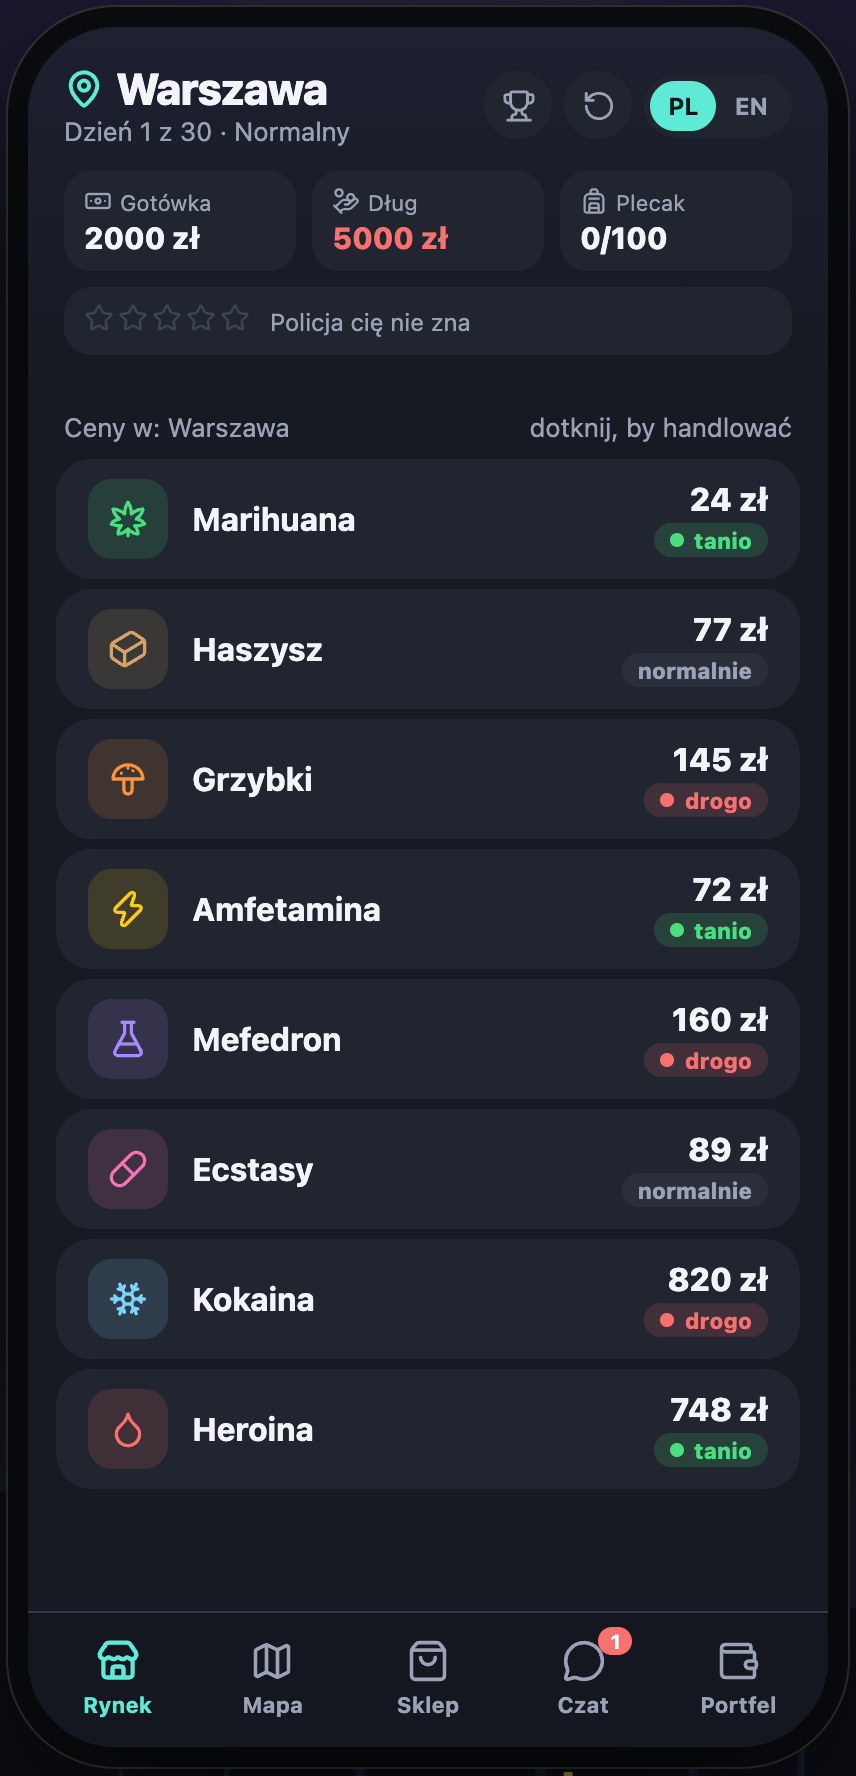
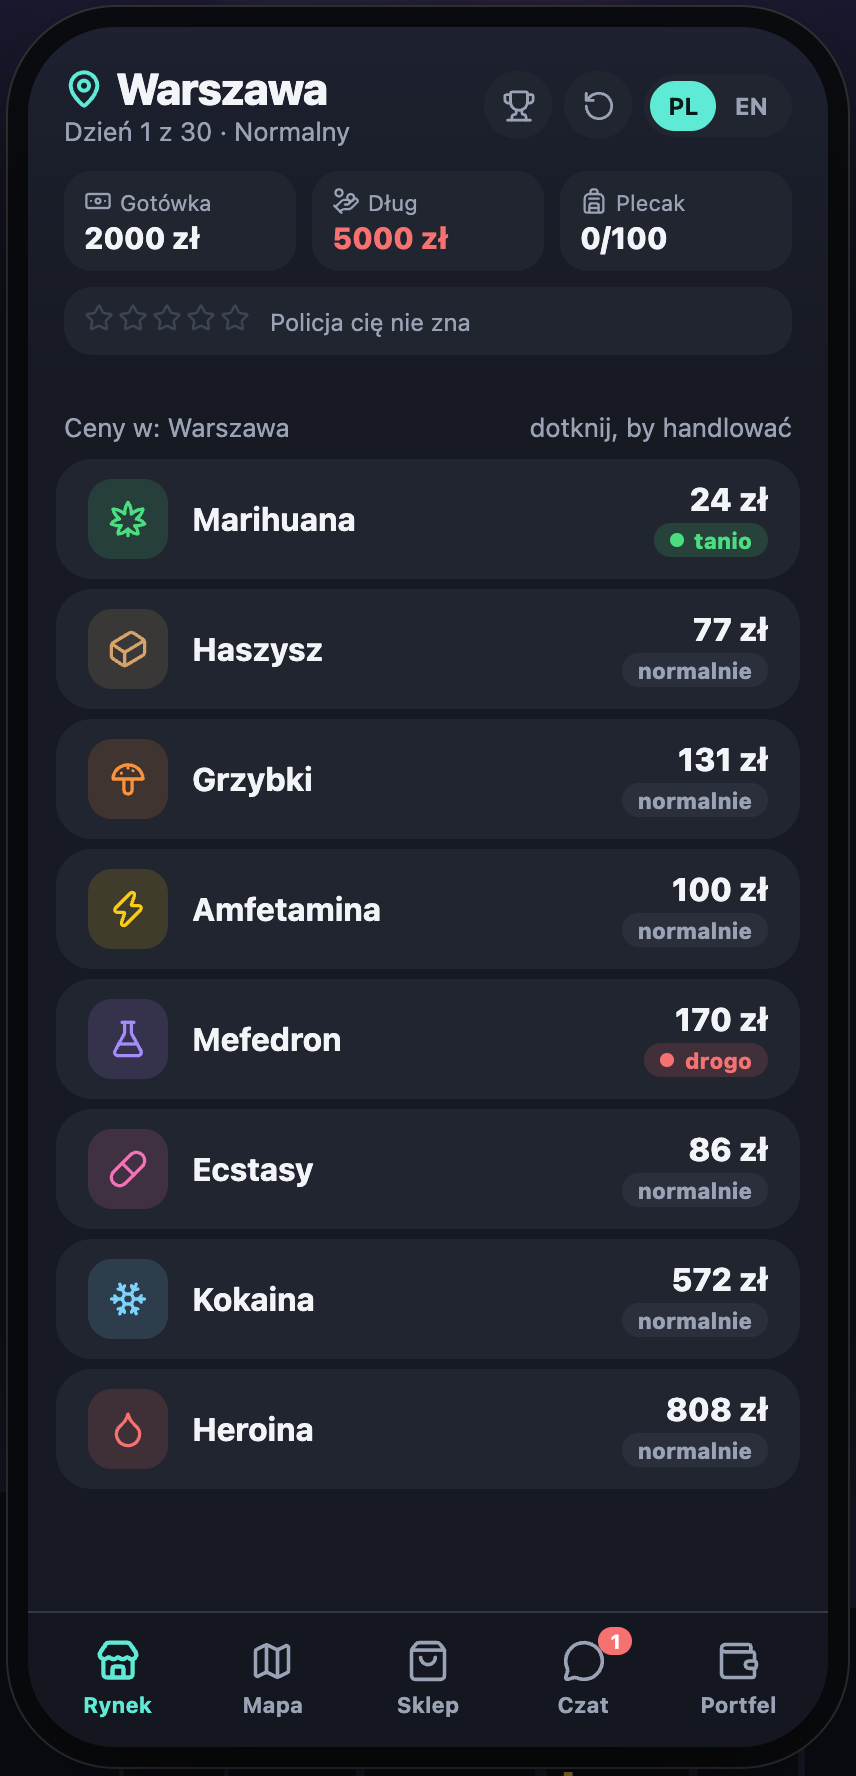
Travel cost by distance: train fare 15 zł + 0.20 zł/km, fuel = km x l/100km x 6.5 zł; map sorted by distance

diff --git a/src/game/data.ts b/src/game/data.ts
@@ -14,7 +14,9 @@ export interface City {
   exp: GoodId[];
   /** poziom policji 1..3 */
   police: number;
-  ticket: number;
+  /** współrzędne (do liczenia odległości) */
+  lat: number;
+  lon: number;
   clinic?: boolean;
 }
 
@@ -30,14 +32,14 @@ export const GOODS: Good[] = [
 ];
 
 export const CITIES: City[] = [
-  { id: 'waw', cheap: [], exp: ['coke', 'ecstasy'], police: 3, ticket: 60, clinic: true },
-  { id: 'krk', cheap: [], exp: ['weed', 'ecstasy'], police: 2, ticket: 50, clinic: true },
-  { id: 'gda', cheap: ['coke'], exp: ['speed'], police: 2, ticket: 70, clinic: true },
-  { id: 'szc', cheap: ['coke', 'heroin'], exp: [], police: 1, ticket: 80 },
-  { id: 'wro', cheap: ['ecstasy'], exp: ['speed'], police: 2, ticket: 60, clinic: true },
-  { id: 'poz', cheap: ['weed'], exp: ['coke'], police: 1, ticket: 55, clinic: true },
-  { id: 'lod', cheap: ['speed', 'mefa'], exp: [], police: 1, ticket: 40 },
-  { id: 'kat', cheap: ['speed'], exp: ['weed', 'mefa'], police: 2, ticket: 50 },
+  { id: 'waw', cheap: [], exp: ['coke', 'ecstasy'], police: 3, lat: 52.23, lon: 21.01, clinic: true },
+  { id: 'krk', cheap: [], exp: ['weed', 'ecstasy'], police: 2, lat: 50.06, lon: 19.94, clinic: true },
+  { id: 'gda', cheap: ['coke'], exp: ['speed'], police: 2, lat: 54.35, lon: 18.65, clinic: true },
+  { id: 'szc', cheap: ['coke', 'heroin'], exp: [], police: 1, lat: 53.43, lon: 14.55 },
+  { id: 'wro', cheap: ['ecstasy'], exp: ['speed'], police: 2, lat: 51.11, lon: 17.03, clinic: true },
+  { id: 'poz', cheap: ['weed'], exp: ['coke'], police: 1, lat: 52.41, lon: 16.93, clinic: true },
+  { id: 'lod', cheap: ['speed', 'mefa'], exp: [], police: 1, lat: 51.76, lon: 19.46 },
+  { id: 'kat', cheap: ['speed'], exp: ['weed', 'mefa'], police: 2, lat: 50.26, lon: 19.02 },
 ];
 
 export const DIFFS: Record<Diff, { days: number; debt: number; police: number; tut: boolean; showAvg: boolean }> = {
@@ -45,6 +47,11 @@ export const DIFFS: Record<Diff, { days: number; debt: number; police: number; t
   normal: { days: 30, debt: 5000, police: 1, tut: true, showAvg: true },
   hard: { days: 30, debt: 10000, police: 1.5, tut: false, showAvg: false },
 };
+
+/** Bilet: opłata stała + stawka za km; odległość drogowa ≈ w linii prostej × ROAD */
+export const FARE = { base: 15, perKm: 0.2, road: 1.2 };
+/** Cena paliwa za litr (zł) */
+export const FUEL_PRICE = 6.5;
 
 export const START = { cash: 2000, heat: 5, cap: 100, city: 'waw' as CityId };
 export const ECON = {
@@ -59,14 +66,14 @@ export const ECON = {
 };
 
 /** Transport: pojemność, szansa ucieczki przed policją/napadem, mnożnik szansy kontroli */
-/** fuel: 0 = jedziesz pociągiem (bilet); > 0 = własny pojazd, paliwo = bilet × fuel */
+/** fuel: spalanie w l/100 km; 0 = jedziesz pociągiem (bilet) */
 export interface Vehicle { id: VehicleId; price: number; cap: number; run: number; police: number; fuel: number }
 export const VEHICLES: Vehicle[] = [
   { id: 'backpack', price: 0, cap: 100, run: 50, police: 1, fuel: 0 },
   { id: 'bigpack', price: 1500, cap: 150, run: 45, police: 1, fuel: 0 }, // cięższy = trudniej uciec
-  { id: 'scooter', price: 8000, cap: 200, run: 65, police: 1, fuel: 0.5 },
-  { id: 'car', price: 25000, cap: 350, run: 55, police: 1, fuel: 1.3 },
-  { id: 'van', price: 70000, cap: 700, run: 35, police: 1.25, fuel: 2 },
+  { id: 'scooter', price: 8000, cap: 200, run: 65, police: 1, fuel: 3 },
+  { id: 'car', price: 25000, cap: 350, run: 55, police: 1, fuel: 7 },
+  { id: 'van', price: 70000, cap: 700, run: 35, police: 1.25, fuel: 11 },
 ];
 /** Ochrona przed napadem. Nielegalna broń: przy złapaniu przez policję konfiskata + dodatkowa grzywna */
 export interface Weapon { id: WeaponId; price: number; fight: number; legal: boolean }

diff --git a/src/game/engine.ts b/src/game/engine.ts
@@ -2,7 +2,7 @@
  * Silnik gry: czyste funkcje (stan → nowy stan + efekty). Bez DOM, bez localStorage, bez Math.random.
  * Każda akcja klonuje stan wejściowy, więc wejście nigdy nie jest modyfikowane (cofanie ruchu = poprzedni stan).
  */
-import { basePrice, BORROW, C, CITIES, COLLECT, DIFFS, DODGE, ECON, GOODS, GUN_FINE, LOSS, PROTECT, RESALE, MED, MED_PREMIUM, ROBBERY_CHANCE, RX, START, V, W } from './data';
+import { basePrice, BORROW, C, CITIES, COLLECT, DIFFS, DODGE, ECON, FARE, FUEL_PRICE, GOODS, GUN_FINE, LOSS, PROTECT, RESALE, MED, MED_PREMIUM, ROBBERY_CHANCE, RX, START, V, W } from './data';
 import { pick, rng } from './rng';
 import type {
   CityId, Diff, Fx, GameState, GoodId, ItemId, Msg, Outcome, PoliceChoice, Rating, RobberyChoice, Sender, Src, TradeMode,
@@ -131,9 +131,23 @@ export function trade(prev: GameState, item: ItemId, mode: TradeMode, n: number,
  * Bez pieniędzy na bilet można jechać tylko na gapę.
  */
 /** Koszt podróży: bilet na pociąg albo paliwo do własnego pojazdu */
-export function travelCost(s: GameState, to: CityId): { kind: 'ticket' | 'fuel'; cost: number } {
+/** Odległość drogowa między miastami w km (w linii prostej × FARE.road, zaokrąglona do 5 km) */
+export function distanceKm(a: CityId, b: CityId): number {
+  if (a === b) return 0;
+  const R = 6371, rad = Math.PI / 180;
+  const A = C[a], B = C[b];
+  const dLat = (B.lat - A.lat) * rad, dLon = (B.lon - A.lon) * rad;
+  const h = Math.sin(dLat / 2) ** 2 + Math.cos(A.lat * rad) * Math.cos(B.lat * rad) * Math.sin(dLon / 2) ** 2;
+  return Math.round((2 * R * Math.asin(Math.sqrt(h)) * FARE.road) / 5) * 5;
+}
+/** Cena biletu na pociąg zależy od odległości */
+export const ticketPrice = (a: CityId, b: CityId) => Math.round(FARE.base + FARE.perKm * distanceKm(a, b));
+/** Koszt podróży z obecnego miasta: bilet albo paliwo (km × spalanie × cena litra) */
+export function travelCost(s: GameState, to: CityId): { kind: 'ticket' | 'fuel'; cost: number; km: number } {
   const fuel = V[s.vehicle].fuel;
-  return fuel ? { kind: 'fuel', cost: Math.round(C[to].ticket * fuel) } : { kind: 'ticket', cost: C[to].ticket };
+  const ticket = ticketPrice(s.city, to);
+  const km = distanceKm(s.city, to);
+  return fuel ? { kind: 'fuel', cost: Math.round((km * fuel * FUEL_PRICE) / 100), km } : { kind: 'ticket', cost: ticket, km };
 }
 export function travel(prev: GameState, to: CityId, dodge = false): Outcome {
   if (to === prev.city || prev.day >= prev.maxDays || prev.pending || prev.over) return { s: prev, fx: [] };

diff --git a/tests/engine.test.ts b/tests/engine.test.ts
@@ -121,19 +121,22 @@ describe('recepta i apteka', () => {
 describe('sklep i napad', () => {
   it('własny pojazd: paliwo zamiast biletu', () => {
     const s = { ...afterTutorial(), cash: 100000 };
-    expect(travelCost(s, 'krk')).toEqual({ kind: 'ticket', cost: 50 });
-    expect(travelCost({ ...s, vehicle: 'scooter' }, 'krk')).toEqual({ kind: 'fuel', cost: 25 });
-    expect(travelCost({ ...s, vehicle: 'car' }, 'krk')).toEqual({ kind: 'fuel', cost: 65 });
-    expect(travelCost({ ...s, vehicle: 'van' }, 'krk')).toEqual({ kind: 'fuel', cost: 100 });
-    expect(travel({ ...s, vehicle: 'van' }, 'krk').s.cash).toBe(100000 - 100);
+    // Warszawa → Kraków: 305 km; bilet 15 + 0,2 zł/km; paliwo = km × l/100 × 6,5 zł
+    expect(travelCost(s, 'krk')).toEqual({ kind: 'ticket', cost: 76, km: 305 });
+    expect(travelCost({ ...s, vehicle: 'scooter' }, 'krk')).toEqual({ kind: 'fuel', cost: 59, km: 305 });
+    expect(travelCost({ ...s, vehicle: 'car' }, 'krk')).toEqual({ kind: 'fuel', cost: 139, km: 305 });
+    expect(travelCost({ ...s, vehicle: 'van' }, 'krk')).toEqual({ kind: 'fuel', cost: 218, km: 305 });
+    expect(travel({ ...s, vehicle: 'van' }, 'krk').s.cash).toBe(100000 - 218);
+    // cena zależy od tego, skąd jedziesz
+    expect(travelCost({ ...s, city: 'kat' }, 'krk').cost).toBeLessThan(travelCost({ ...s, city: 'gda' }, 'krk').cost);
   });
   it('pojazdem nie da się na gapę; brak kasy na paliwo → pożyczka i jazda', () => {
     const s = { ...afterTutorial(), vehicle: 'car' as const, cap: 350, cash: 20 };
     expect(travel(s, 'krk', true).s).toBe(s);
-    const r = borrowAndTravel(s, 'krk'); // paliwo 65 zł, brakuje 45
+    const r = borrowAndTravel(s, 'krk'); // paliwo 139 zł, brakuje 119
     expect(r.s.day).toBe(2);
     expect(r.s.cash).toBe(0);
-    expect(r.s.debt).toBe(Math.round((5000 + 45) * 1.07));
+    expect(r.s.debt).toBe(Math.round((5000 + 119) * 1.07));
   });
   it('sprzedaż pojazdu: tylko gdy towar mieści się w plecaku', () => {
     const full = { ...afterTutorial(), vehicle: 'car' as const, cap: 350, cash: 0, inv: { weed: { qty: 150, avg: 20 } } };

diff --git a/src/components/MapView.svelte b/src/components/MapView.svelte
@@ -5,7 +5,7 @@
   import { actions } from '../stores/app';
   import { DICTS, t } from '../i18n';
   import { CITIES } from '../game/data';
-  import { travelCost } from '../game/engine';
+  import { distanceKm, travelCost } from '../game/engine';
   import type { GameState, Lang } from '../game/types';
 
   let { game, lang }: { game: GameState; lang: Lang } = $props();
@@ -15,13 +15,13 @@
 
 {#if last}<div class="tip">⏰ {t(lang, 'lastDay')}</div>{/if}
 <div class="h"><span>{t(lang, 'travelTo')}</span></div>
-{#each CITIES as c (c.id)}
+{#each [...CITIES].sort((a, b) => distanceKm(game.city, a.id) - distanceKm(game.city, b.id)) as c (c.id)}
   {@const here = c.id === game.city}
   <button class="row" class:pulse={game.tut === 1 && c.id === 'krk'} disabled={here || last} onclick={() => actions.askTravel(c.id)}>
     <ItemIcon name={here ? 'here' : 'city'} />
     <div class="grow">
       <div class="name">{d.cities[c.id]}</div>
-      <div class="sub">{#if here}{t(lang, 'here')}{:else}{@const tc = travelCost(game, c.id)}{t(lang, tc.kind === 'fuel' ? 'fuel' : 'ticket', { p: tc.cost })}{/if}{game.rxUnlocked && c.clinic ? ' · ' + t(lang, 'clinicHere') : ''}</div>
+      <div class="sub">{#if here}{t(lang, 'here')}{:else}{@const tc = travelCost(game, c.id)}{t(lang, tc.kind === 'fuel' ? 'fuel' : 'ticket', { p: tc.cost })} · {tc.km} km{/if}{game.rxUnlocked && c.clinic ? ' · ' + t(lang, 'clinicHere') : ''}</div>
     </div>
     <div class="pol" title={t(lang, 'polLvlTip', { n: c.police })}>
       <span class="cap"><Siren size={11} strokeWidth={2.4} /> {t(lang, 'polLvl')}</span>

diff --git a/tests/balance.sim.test.ts b/tests/balance.sim.test.ts
@@ -34,7 +34,7 @@ function play(diff: Diff, seed: number, cautious: boolean): Stats {
     const cheap = GOODS.map((g) => ({ id: g.id as GoodId, r: s.prices[s.city][g.id] / ((g.min + g.max) / 2) }))
       .filter((x) => rating(x.id, s.prices[s.city][x.id]) === 'cheap').sort((a, b) => a.r - b.r)[0];
     if (cheap) {
-      const keep = 100;
+      const keep = 150;
       const p = s.prices[s.city][cheap.id];
       const n = Math.min(tradeLimits(s, cheap.id, 'street').maxBuy, Math.floor((s.cash - keep) / p));
       if (n > 0) s = trade(s, cheap.id, 'buy', n).s;
@@ -42,7 +42,7 @@ function play(diff: Diff, seed: number, cautious: boolean): Stats {
     // jedź do losowego innego miasta
     const others = CITIES.filter((c) => c.id !== s.city);
     const to = others[(seed + s.day * 7) % others.length].id;
-    const r = travel(s, to, s.cash < 100);
+    const r = travel(s, to, s.cash < 150);
     s = r.s;
     if (s.pending?.kind === 'police') { st.police++; s = resolvePolice(s, used(s) > 40 && s.cash > s.pending.bribeC ? 'bribe' : 'run').s; }
     if (s.pending?.kind === 'robbery') { st.robbery++; s = resolveRobbery(s, 'run').s; }

diff --git a/e2e/game.spec.ts b/e2e/game.spec.ts
@@ -118,10 +118,10 @@ test('auto bez kasy na paliwo: pożyczka i jazda, bez opcji na gapę', async ({ 
   await page.evaluate(() => { const s = JSON.parse(localStorage.getItem('ss_save_v3')!); Object.assign(s, { cash: 20, tut: 4, vehicle: 'car', cap: 350 }); localStorage.setItem('ss_save_v3', JSON.stringify(s)); });
   await page.reload();
   await page.getByRole('button', { name: 'Mapa' }).click();
-  await expect(page.getByRole('button', { name: /Kraków/ })).toContainText('paliwo 65 zł');
+  await expect(page.getByRole('button', { name: /Kraków/ })).toContainText('paliwo 139 zł · 305 km');
   await page.getByRole('button', { name: /Kraków/ }).click();
   await expect(page.getByText('Nie stać cię na paliwo')).toBeVisible();
   await expect(page.getByRole('button', { name: /na gapę/ })).toHaveCount(0);
-  await page.getByRole('button', { name: /Pożycz 45 zł od Zbycha i jedź/ }).click();
+  await page.getByRole('button', { name: /Pożycz 119 zł od Zbycha i jedź/ }).click();
   await expect(page.locator('.day')).toContainText('Dzień 2');
 });

diff --git a/src/i18n/pl.ts b/src/i18n/pl.ts
@@ -105,7 +105,7 @@ export const pl = {
     shopProtectNote: 'Przydaje się przy napadzie na trasie. Kupione rzeczy zostają z tobą: liczy się najlepsza, a każda kolejna dodaje +{b}% obrony. Po przegranym starciu napastnicy zabierają twoją najlepszą broń.',
     protectNow: 'Twoja obrona przy napadzie: ~{p}%', protectNone: 'Nie masz jeszcze żadnej ochrony.',
     robLostWeapon: 'Zabrali ci też: {w}.',
-    capLbl: 'miejsce: {n}', fuelLbl: 'paliwo ×{f} biletu', trainLbl: 'pociągiem', runLbl: 'ucieczka ~{p}%', fightLbl: 'obrona ~{p}%', illegalLbl: 'nielegalne',
+    capLbl: 'miejsce: {n}', fuelLbl: 'pali {f} l/100 km', trainLbl: 'pociągiem', runLbl: 'ucieczka ~{p}%', fightLbl: 'obrona ~{p}%', illegalLbl: 'nielegalne',
     vanLbl: 'częstsze kontrole', owned: 'masz', buyFor: 'Kup za {c} zł', boughtGear: 'Kupiono: {item}',
     gunLost: 'Policja zabrała ci pistolet i dołożyła {f} zł grzywny za nielegalną broń.',
     robTitle: 'Napad!', robText: 'W ciemnej bramie zaczepia cię dwóch typów: „Dawaj towar!”. Co robisz?',

diff --git a/src/i18n/en.ts b/src/i18n/en.ts
@@ -107,7 +107,7 @@ export const en: Dict = {
     shopProtectNote: 'Useful when you get robbed on the way. You keep everything you buy: your best item counts, and each extra one adds +{b}% defense. If you lose a fight, the robbers take your best weapon.',
     protectNow: 'Your defense against robbery: ~{p}%', protectNone: "You don't have any protection yet.",
     robLostWeapon: 'They also took your {w}.',
-    capLbl: 'space: {n}', fuelLbl: 'fuel ×{f} ticket', trainLbl: 'by train', runLbl: 'escape ~{p}%', fightLbl: 'defense ~{p}%', illegalLbl: 'illegal',
+    capLbl: 'space: {n}', fuelLbl: 'uses {f} l/100 km', trainLbl: 'by train', runLbl: 'escape ~{p}%', fightLbl: 'defense ~{p}%', illegalLbl: 'illegal',
     vanLbl: 'more police checks', owned: 'owned', buyFor: 'Buy for {c} zł', boughtGear: 'Bought: {item}',
     gunLost: 'The police took your gun and added a {f} zł fine for illegal possession.',
     robTitle: 'Robbery!', robText: 'Two guys corner you in a dark alley: "Hand over the stuff!" What do you do?',

diff --git a/src/components/Shop.svelte b/src/components/Shop.svelte
@@ -22,7 +22,7 @@
       <ItemIcon name={v.id} />
       <div class="grow">
         <div class="name">{d.gear[v.id]}</div>
-        <div class="sub">{t(lang, 'capLbl', { n: v.cap })} · {t(lang, 'runLbl', { p: v.run })} · {v.fuel ? t(lang, 'fuelLbl', { f: String(v.fuel).replace('.', lang === 'pl' ? ',' : '.') }) : t(lang, 'trainLbl')}{v.police > 1 ? ' · ' + t(lang, 'vanLbl') : ''}</div>
+        <div class="sub">{t(lang, 'capLbl', { n: v.cap })} · {t(lang, 'runLbl', { p: v.run })} · {v.fuel ? t(lang, 'fuelLbl', { f: v.fuel }) : t(lang, 'trainLbl')}{v.police > 1 ? ' · ' + t(lang, 'vanLbl') : ''}</div>
       </div>
       {#if owned}
         <span class="badge"><Check size={14} /> {t(lang, 'owned')}</span>

diff --git a/GDD.md b/GDD.md
@@ -226,6 +226,13 @@ Kupowany w zakładce **Sklep**, tylko „w górę” (każdy następny ma więce
 | Dostawczak | 70 000 zł | 700 | 35% | Kontrole policji ×1,25. |
 | Kurier / dron (później) | — | — | — | Wysyłka bez podróżowania, z ryzykiem utraty. |
 
+**Koszt podróży zależy od odległości** (współrzędne miast, odległość w linii prostej × 1,2 ≈ droga):
+- pociąg (plecak): bilet = 15 zł + 0,20 zł/km, np. Katowice → Kraków (85 km) 32 zł, Gdańsk → Kraków (580 km) 131 zł;
+- własny pojazd: paliwo = km × spalanie × 6,5 zł/l. Skuter 3 l/100 km, auto 7 l/100 km, dostawczak 11 l/100 km (Warszawa → Kraków: 59 / 139 / 218 zł, bilet 76 zł);
+- własnym pojazdem nie da się jechać na gapę; brak kasy na paliwo → „Pożycz brakującą kwotę od Zbycha i jedź” albo sprzedaż towaru/pojazdu;
+- pojazd można sprzedać za 50% ceny (powrót do plecaka 100), tylko gdy towar mieści się w plecaku;
+- Mapa sortuje miasta od najbliższego i pokazuje koszt oraz odległość.
+
 ### 8.1a Sklep: ochrona i napady
 **Napad na trasie** (ok. 7% szans przy podróży z towarem, jeśli nie było kontroli; × mnożnik poziomu trudności: łatwy 0,5, normalny 1, trudny 1,5). Wybory:
 - **Oddaj część towaru:** pewne, tracisz ćwierć każdego towaru.
@@ -238,7 +245,7 @@ Kupowany w zakładce **Sklep**, tylko „w górę” (każdy następny ma więce
 | Kij bejsbolowy | 800 zł | 55% | Legalny. |
 | Pistolet | 6 000 zł | 80% | Nielegalny: przy złapaniu przez policję konfiskata + 1 000 zł grzywny. |
 
-Nowa broń zastępuje poprzednią.
+Kupione przedmioty zostają (każdy kupuje się raz). Obrona = najlepszy przedmiot + 5% za każdy kolejny (max 90%). Po przegranym starciu napastnicy zabierają najlepszą broń.
 
 ### 8.2 Kontakty
 Zdobywasz je przez zlecenia na czacie (np. „przywieź 20 g do Krakowa do piątku”). Przykłady:
